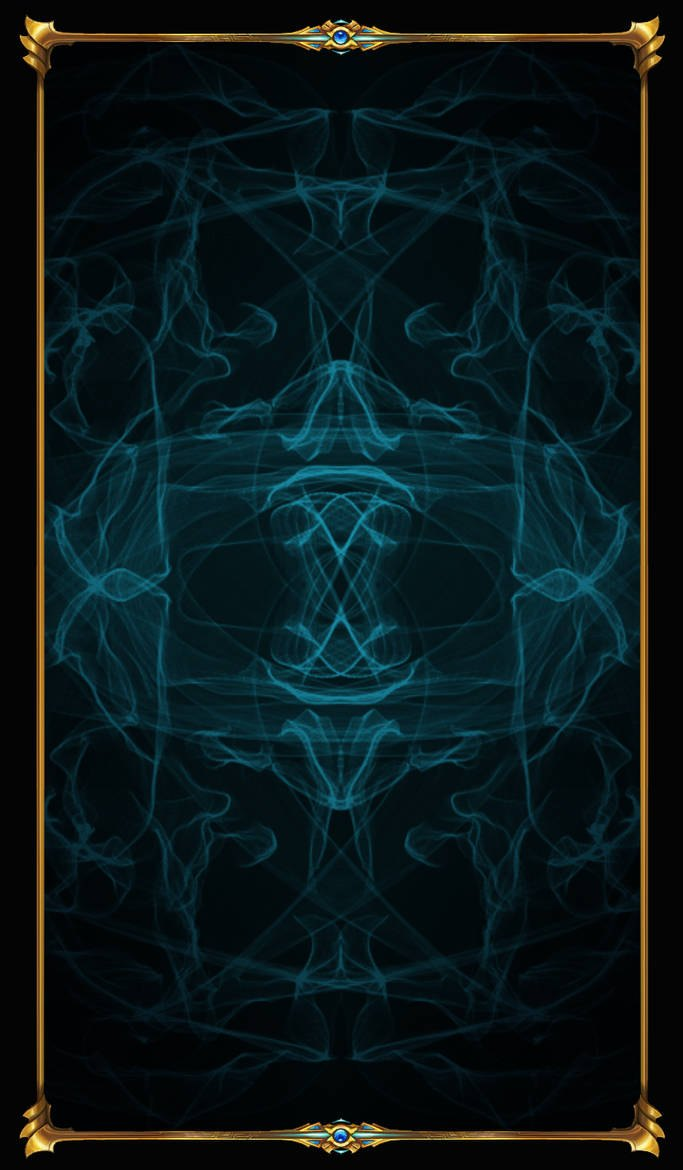
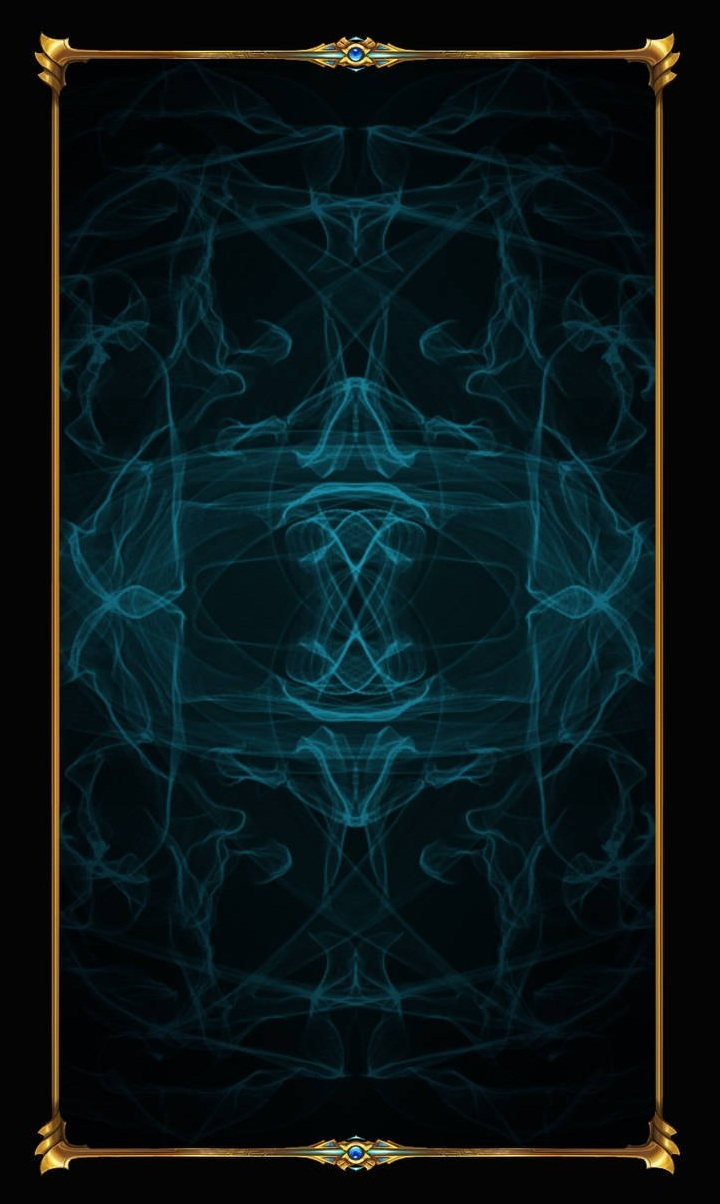
try img with cover

diff --git a/fortune_teller/styles/base.css b/fortune_teller/styles/base.css
@@ -157,21 +157,17 @@ img#zodiac{
     perspective: 1000px;
 }
 .card-wrapper {
+   transition: transform 0.5s ease-in-out;
+   transform-style: preserve-3d;
+}
+img.tarot {
+    object-fit: cover;
     width: 150px;
     aspect-ratio: 1 / 1.7;
     border: 10px solid black;
     border-radius: 20px;
     overflow: hidden;
-    background-color: black;
-    transition: transform 0.5s ease-in-out;
-    transform-style: preserve-3d;
-}
-img.tarot {
-    width: 100%;
-    height: 100%;
-    object-fit: cover;
-    border: 2px solid black;
-    border-radius: 10px;
+    background-color: black;    
 }
 .card-wrapper.flip {
     transform: rotateY(360deg);

diff --git a/fortune_teller/scripts/tarotfix.js b/fortune_teller/scripts/tarotfix.js
@@ -31,11 +31,11 @@ async function displayCardResult() {
     const tarotImg = document.querySelector("#tarotcard");
     const wrapper = document.querySelector(".card-wrapper");
 
-    // подменяем картинку
+    // change the image
     tarotImg.src = card.logo;
     tarotImg.alt = `Image of ${card.name}`;
 
-    // даём браузеру применить src
+    // let the browser apply the src
     requestAnimationFrame(() => {
         wrapper.classList.add("flip");
     });
